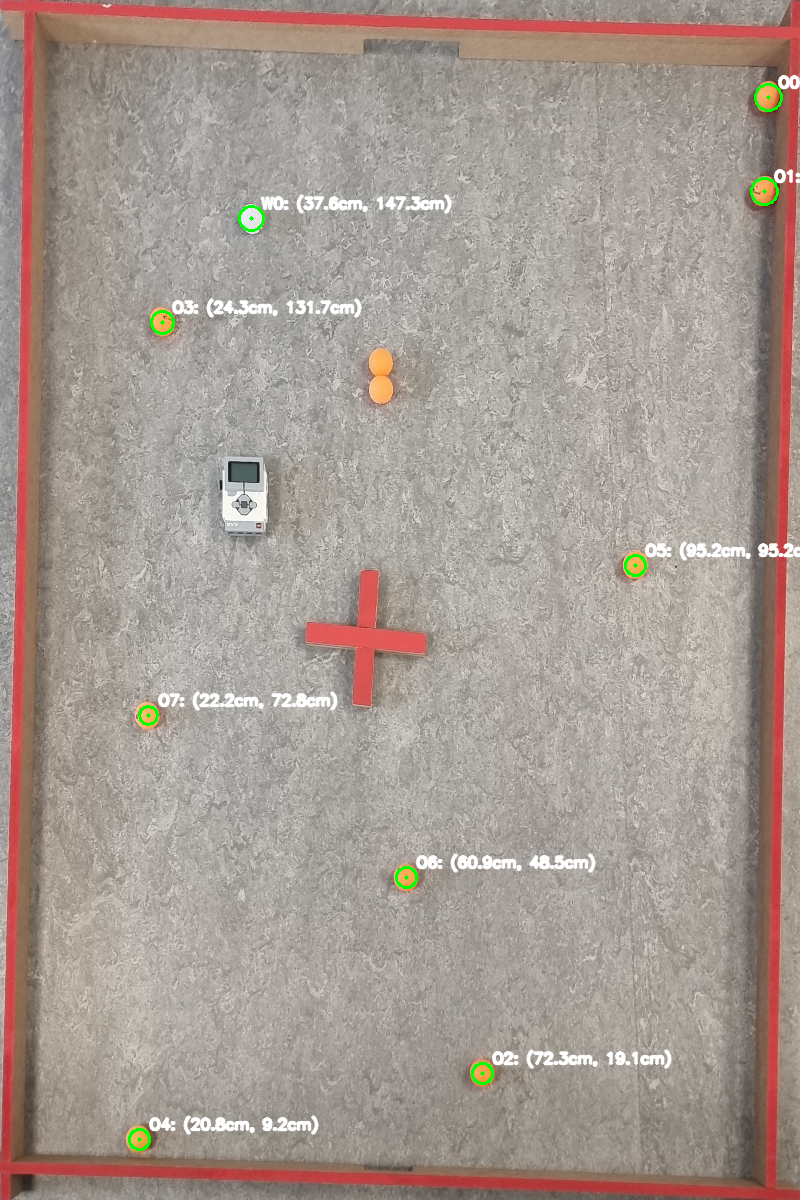
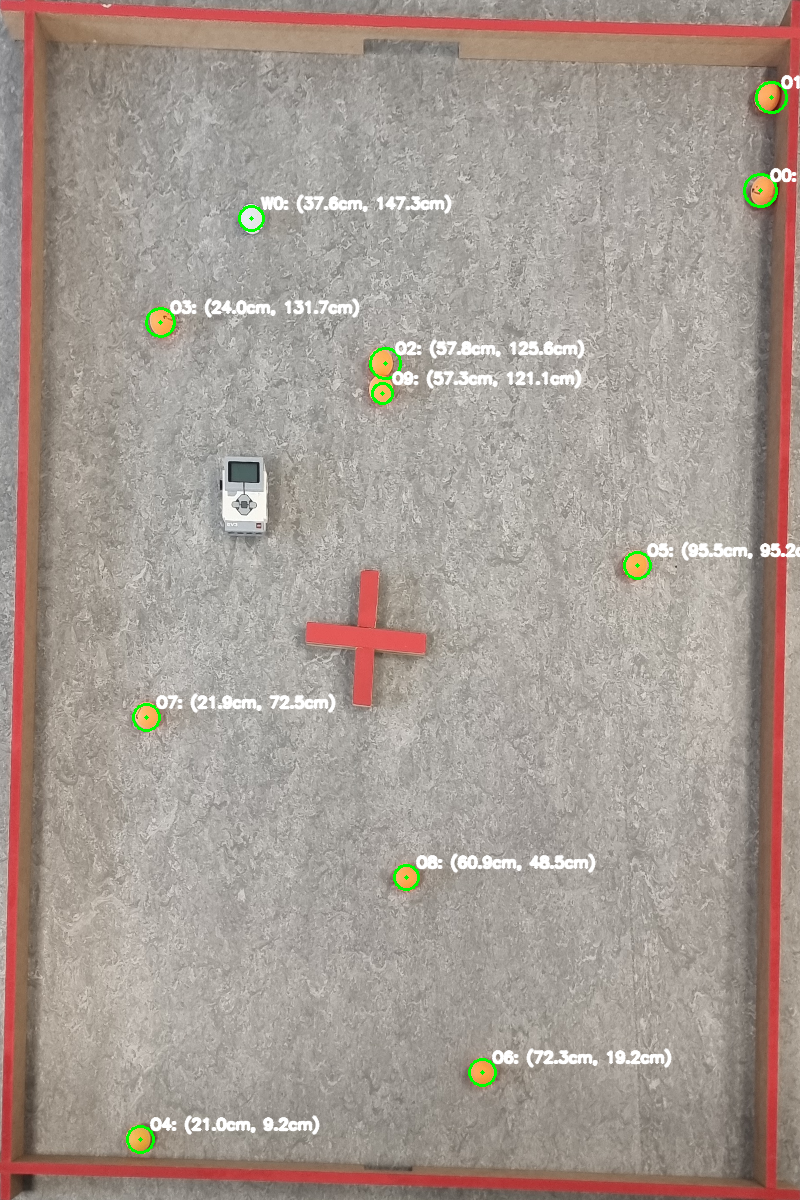
Draw image with positions

diff --git a/Object_Tracking/Object_Tracking.py b/Object_Tracking/Object_Tracking.py
@@ -78,6 +78,56 @@ def detect_balls_by_hsv(warped_bgr, lower, upper, min_area=80, max_area=2000, mi
 
     return detections, mask
 
+def detect_orange_balls_hough(
+    warped_bgr,
+    lower=(5, 120, 120),
+    upper=(25, 255, 255),
+    dp=1.2,
+    minDist=25,
+    param1=120,
+    param2=14,
+    minRadius=8,
+    maxRadius=20
+):
+    """
+    Returns:
+      dets: list of (x_px, y_px, r_px, area, circularity_placeholder)
+      mask: orange mask used for detection
+    Notes:
+      - area is computed from radius
+      - circularity is set to 1.0 (Hough already assumes circles)
+    """
+    hsv = cv2.cvtColor(warped_bgr, cv2.COLOR_BGR2HSV)
+    mask = cv2.inRange(hsv, np.array(lower), np.array(upper))
+
+    # Clean mask a bit (avoid anything that merges blobs!)
+    mask = cv2.morphologyEx(mask, cv2.MORPH_OPEN, np.ones((3, 3), np.uint8), iterations=1)
+
+    # HoughCircles works better on a blurred image
+    blur = cv2.GaussianBlur(mask, (9, 9), 2)
+
+    circles = cv2.HoughCircles(
+        blur,
+        cv2.HOUGH_GRADIENT,
+        dp=dp,
+        minDist=minDist,
+        param1=param1,
+        param2=param2,
+        minRadius=minRadius,
+        maxRadius=maxRadius
+    )
+
+    dets = []
+    if circles is not None:
+        circles = np.round(circles[0]).astype(int)
+        for x, y, r in circles:
+            area = float(np.pi * r * r)
+            dets.append((int(x), int(y), int(r), area, 1.0))
+
+    # Optional: sort biggest first
+    dets.sort(key=lambda t: t[2], reverse=True)
+    return dets, mask
+
 def px_to_world_cm(x_px, y_px, warp_w_px, warp_h_px, court_w_cm=120.0, court_h_cm=180.0):
     cm_per_px_x = court_w_cm / warp_w_px
     cm_per_px_y = court_h_cm / warp_h_px
@@ -120,7 +170,7 @@ def draw_detections_on_warp(
         )
 
 if __name__ == "__main__":
-    img = cv2.imread("../Images/20260225_103453.jpg")
+    img = cv2.imread("../Images/20260225_115207.jpg")
 
     WARP_W, WARP_H = 800, 1200
     COURT_W_CM, COURT_H_CM = 120.0, 180.0
@@ -129,7 +179,15 @@ if __name__ == "__main__":
     if warped is None:
         raise RuntimeError("Could not find arena")
 
-    orange_balls, omask = detect_balls_by_hsv(warped, lower=(5, 120, 120), upper=(25, 255, 255))
+    orange_balls, omask = detect_orange_balls_hough(warped,
+    lower=(5, 120, 120),
+    upper=(25, 255, 255),
+    dp=1.2,
+    minDist=28,
+    param1=120,
+    param2=14,
+    minRadius=8,
+    maxRadius=20)
     white_balls, wmask   = detect_balls_by_hsv(warped, lower=(0, 0, 180), upper=(180, 60, 255))
     print(len(orange_balls),len(white_balls))
     vis = warped.copy()
@@ -145,7 +203,7 @@ if __name__ == "__main__":
     )
 
     # Show results
-    cv2.imwrite("warped_detections.png", vis)
+    cv2.imwrite("warped_detections3.png", vis)
     cv2.imshow("Warped + detections", vis)
     cv2.waitKey(0)
     cv2.destroyAllWindows()